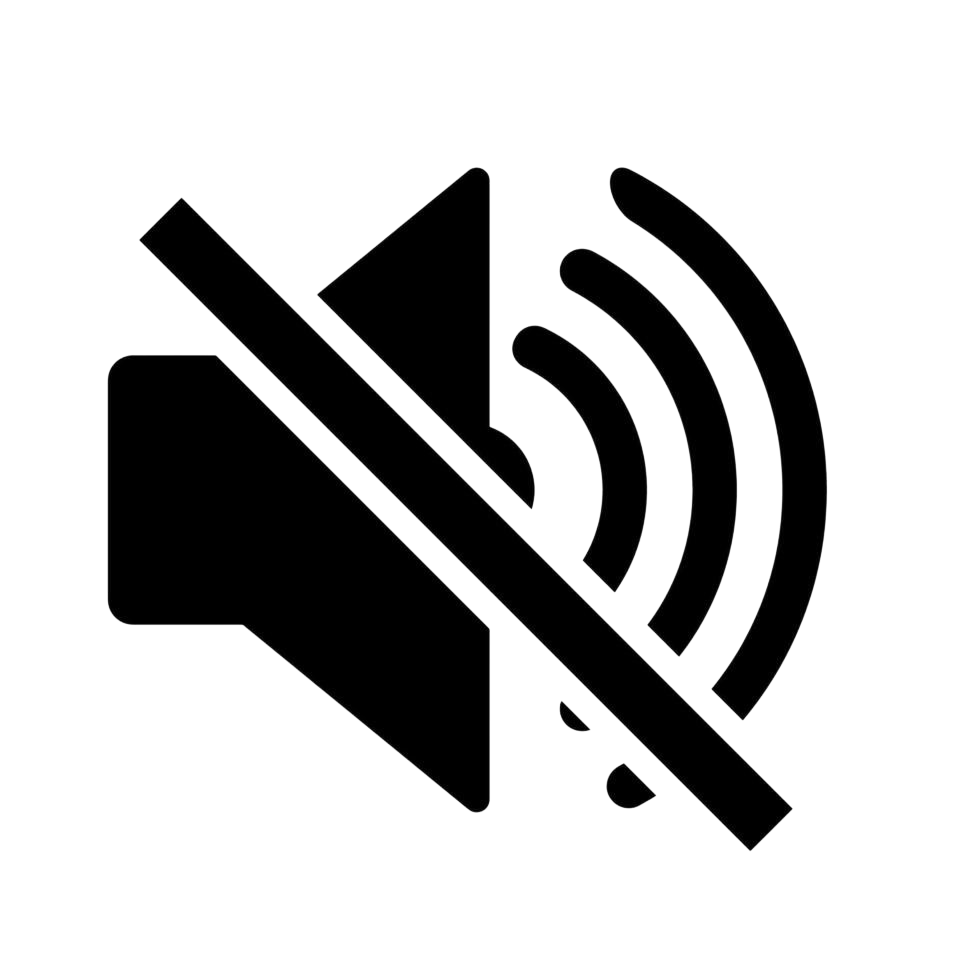
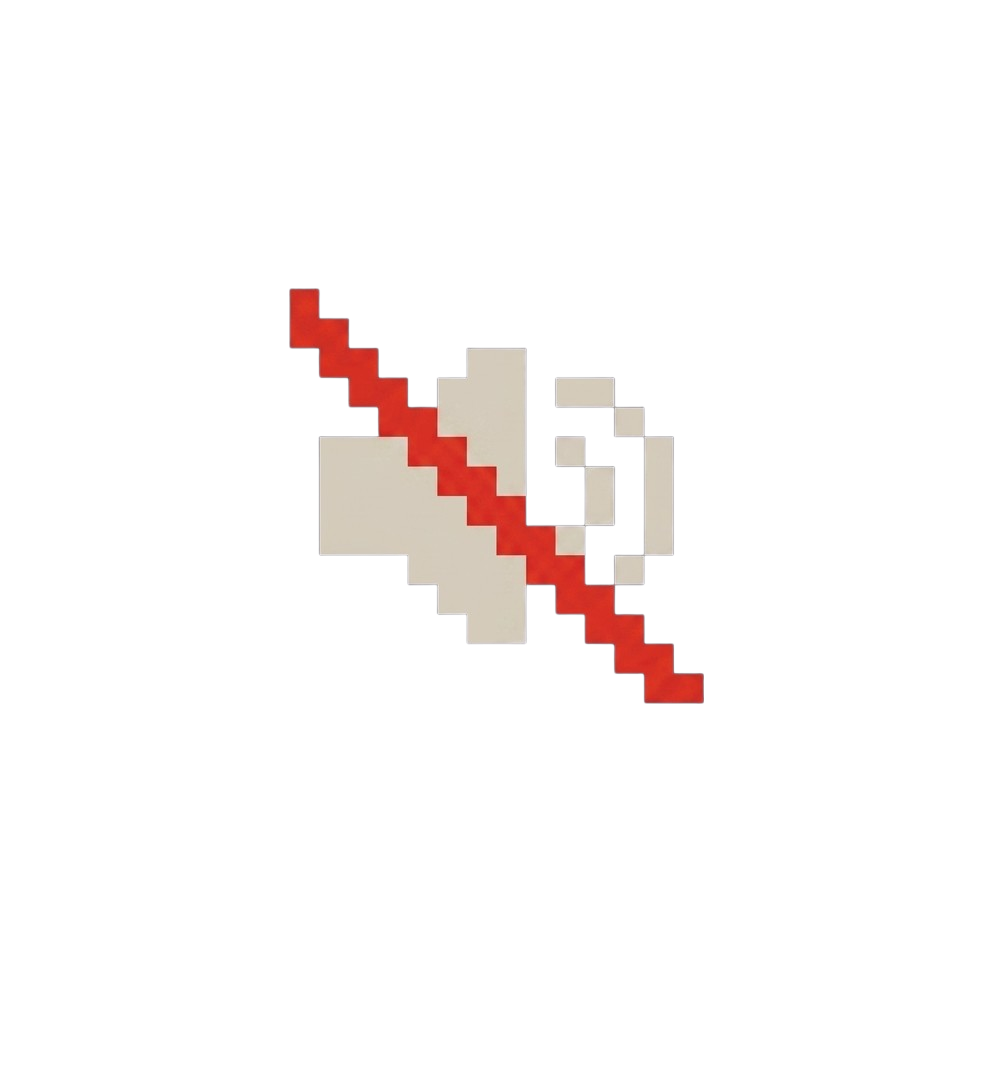
cambiando icono de boton y color de hola

Changed region(s): [[0.0918, 0.1531, 0.8571, 0.8571]]

diff --git a/back.js b/back.js
@@ -14,7 +14,7 @@ audio.addEventListener('loadedmetadata', () => {
 
 function actualizarIcono(activo) {
     sonActivo = activo;
-    iconoSon.src = activo ? 'assets/bocina.png' : 'assets/sin-sonido.png';
+    iconoSon.src = activo ? 'assets/sonido.png' : 'assets/sin-sonido.png';
     iconoSon.alt = activo ? 'Sonido activado' : 'Sonido silenciado';
 }
 

diff --git a/index.html b/index.html
@@ -11,7 +11,7 @@
     <section class="s-perdon" id="inicio">
 
         <button class="btn-sonido" id="btnSonido" aria-label="Silenciar sonido">
-            <img src="assets/bocina.png" alt="Sonido" id="iconoSonido">
+            <img src="assets/sonido.png" alt="Sonido" id="iconoSonido">
         </button>
 
         <header class="encabezado">

diff --git a/styles.css b/styles.css
@@ -101,7 +101,7 @@ button {
 .encabezado h1 {
     font-size: clamp(36px, 11vw, 48px);
     line-height: 1;
-    -webkit-text-stroke: 1px white
+    color: #ffffff;
 }
 .encabezado p {
     font-size: 20px;